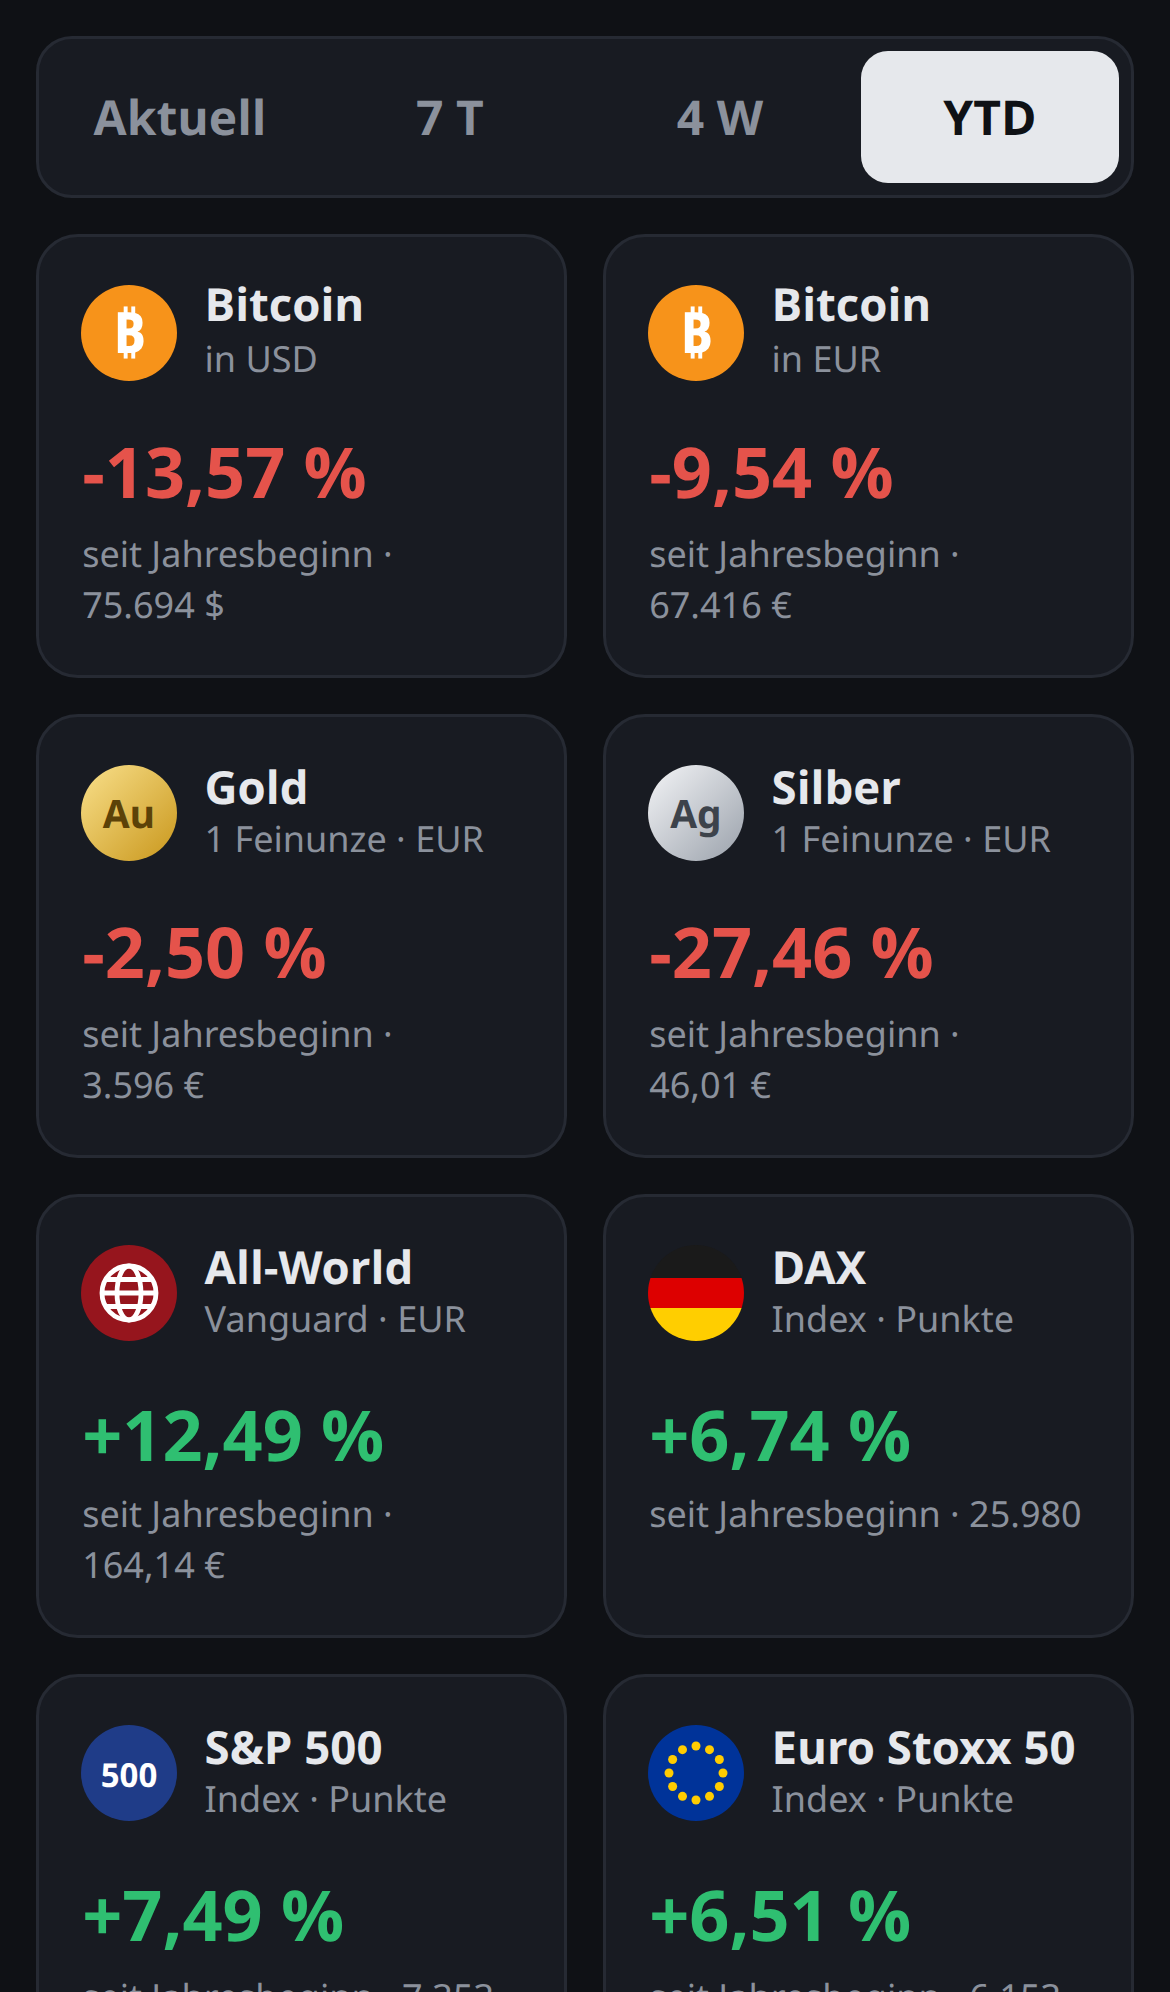
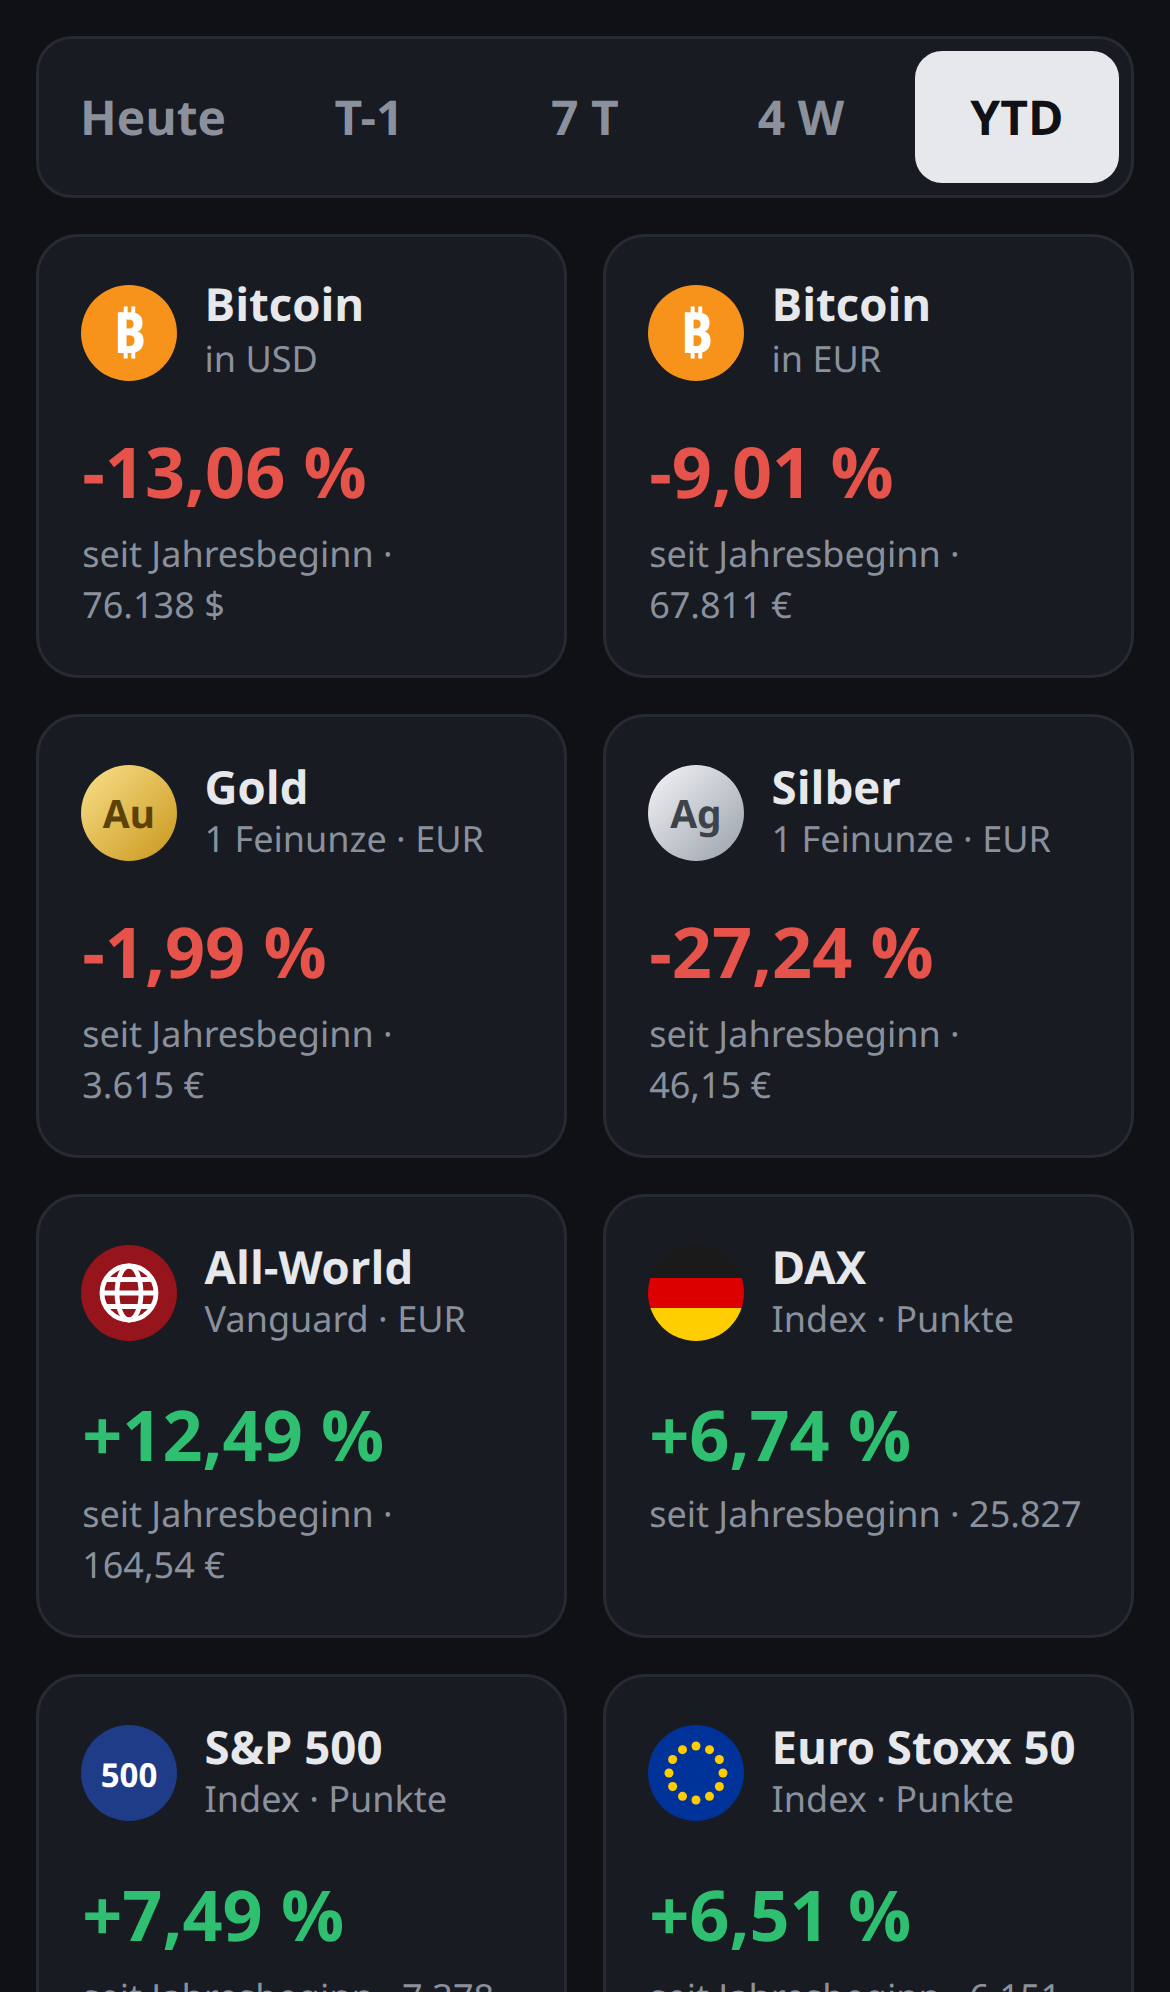
Add "Heute" view: change since yesterday's close (#5)
* Add "Heute" view: change since yesterday's close

CoinGecko assets compare against today's 00:00 UTC point (the previous
day's close); the ETF and indices use onvista's quote.performancePct
(change against previousLast). No extra requests.

* Replace "Aktuell" view with "T-1", start in "Heute"

Views are now Heute / T-1 / 7 T / 4 W / YTD. T-1 is the previous day's
change: today's 00:00 UTC point against yesterday's for CoinGecko
assets, cnPerformance.performanceRelD1 for the ETF and indices. The
current price stays visible in every tile's detail line; the quote
timestamp and the price-only view are gone.

* Replace "Aktuell" view with "T-1", start in "Heute"

Views are now Heute / T-1 / 7 T / 4 W / YTD. T-1 is the previous day's
change: today's 00:00 UTC point against yesterday's for CoinGecko
assets, cnPerformance.performanceRelD1 for the ETF and indices. The
current price stays visible in every tile's detail line; the quote
timestamp and the price-only view are gone.

---------

diff --git a/app.js b/app.js
@@ -42,7 +42,13 @@ const TILES = [
   { name: 'Euro Stoxx 50', unit: 'Index · Punkte', logo: LOGOS.stoxx, load: () => onvistaQuote('indices', 'EU0009658145') },
 ];
 
-const VIEW_LABELS = { w1: '7 Tagen', w4: '4 Wochen', ytd: 'Jahresbeginn' };
+const VIEW_LABELS = {
+  today: 'seit gestern',
+  yesterday: 'gestern',
+  w1: 'seit 7 Tagen',
+  w4: 'seit 4 Wochen',
+  ytd: 'seit Jahresbeginn',
+};
 
 async function getJson(url) {
   const response = await fetch(url);
@@ -71,10 +77,14 @@ async function coinQuote(id, currency) {
   // Daily points sit at 00:00 UTC; the last point is the live price.
   const [updated, current] = prices.at(-1);
   const startOfYear = Date.UTC(new Date(updated).getUTCFullYear(), 0, 1);
+  // Today's 00:00 UTC point is the previous day's close.
+  const startOfDay = updated - (updated % DAY);
+  const previousClose = priceAt(prices, startOfDay);
   return {
     currency: currency.toUpperCase(),
     current,
-    updated,
+    today: change(current, previousClose),
+    yesterday: change(previousClose, priceAt(prices, startOfDay - DAY)),
     w1: change(current, priceAt(prices, updated - 7 * DAY)),
     w4: change(current, priceAt(prices, updated - 28 * DAY)),
     ytd: change(current, priceAt(prices, startOfYear)),
@@ -87,7 +97,8 @@ async function onvistaQuote(kind, isin) {
   return {
     currency: kind === 'indices' ? null : quote.isoCurrency,
     current: quote.last,
-    updated: Date.parse(quote.datetimeLast),
+    today: quote.performancePct, // change against the previous close (quote.previousLast)
+    yesterday: cnPerformance.performanceRelD1, // previous close against the close before
     w1: cnPerformance.performanceRelW1,
     w4: cnPerformance.performanceRelW4,
     ytd: cnPerformance.performanceRelCy,
@@ -118,10 +129,7 @@ function renderBody(result, view) {
   if (result.error) return `<p class="error">Nicht verfügbar (${result.error.message})</p>`;
   const quote = result.quote;
   const price = formatPrice(quote.current, quote.currency);
-  if (view === 'current') {
-    return `<div class="value">${price}</div><div class="detail">Stand ${formatTime(quote.updated)}</div>`;
-  }
-  return `${formatChange(quote[view])}<div class="detail">seit ${VIEW_LABELS[view]} · ${price}</div>`;
+  return `${formatChange(quote[view])}<div class="detail">${VIEW_LABELS[view]} · ${price}</div>`;
 }
 
 const tileEls = TILES.map((tile) => {
@@ -138,7 +146,7 @@ const tileEls = TILES.map((tile) => {
 
 const viewButtons = document.querySelectorAll('.views button');
 const status = document.getElementById('status');
-let view = 'current';
+let view = 'today';
 let results = [];
 let lastLoad = 0;
 

diff --git a/index.html b/index.html
@@ -14,7 +14,8 @@
 <body>
   <header>
     <nav class="views" role="tablist" aria-label="Ansicht">
-      <button type="button" role="tab" data-view="current" aria-selected="true">Aktuell</button>
+      <button type="button" role="tab" data-view="today" aria-selected="true">Heute</button>
+      <button type="button" role="tab" data-view="yesterday" aria-selected="false">T-1</button>
       <button type="button" role="tab" data-view="w1" aria-selected="false">7 T</button>
       <button type="button" role="tab" data-view="w4" aria-selected="false">4 W</button>
       <button type="button" role="tab" data-view="ytd" aria-selected="false">YTD</button>

diff --git a/style.css b/style.css
@@ -33,7 +33,7 @@ header {
 
 .views {
   display: grid;
-  grid-template-columns: repeat(4, 1fr);
+  grid-template-columns: repeat(5, 1fr);
   gap: 4px;
   padding: 4px;
   background: var(--card);
@@ -49,6 +49,7 @@ header {
   color: var(--muted);
   font: inherit;
   font-weight: 600;
+  white-space: nowrap;
   cursor: pointer;
 }
 

diff --git a/openspec/changes/add-daily-change-view/specs/market-dashboard/spec.md b/openspec/changes/add-daily-change-view/specs/market-dashboard/spec.md
@@ -1,0 +1,43 @@
+## MODIFIED Requirements
+
+### Requirement: View switcher
+The page SHALL show a segmented control with five buttons labelled "Heute", "T-1", "7 T", "4 W"
+and "YTD". Exactly one is selected; "Heute" is selected on page load. Selecting a button
+SHALL re-render all tiles for that view without fetching data again. Buttons SHALL use `role="tab"`
+with `aria-selected`. All five labels SHALL fit on one line in one row down to a 320 px wide viewport.
+
+#### Scenario: Period view
+- **WHEN** a view is selected
+- **THEN** each tile shows the percentage change for that period with two decimals, a leading "+" for
+  gains, green for gains, red for losses (e.g. `+12,49 %`, `-9,92 %`)
+- **AND** a small line "seit gestern" / "gestern" / "seit 7 Tagen" / "seit 4 Wochen" /
+  "seit Jahresbeginn", then " · " and the current price in its currency (de-DE, e.g. `67.134 €`,
+  `75.388 $`, `46,01 €`; no decimals at or above 1000, two decimals below; index levels as plain
+  numbers without a currency symbol, e.g. `25.980`)
+
+#### Scenario: Value unavailable
+- **WHEN** a period change cannot be computed (no reference price)
+- **THEN** the tile shows "–" instead of a percentage
+
+### Requirement: Performance calculation
+For Bitcoin, gold and silver the page SHALL compute `(value / reference - 1) * 100` from the daily
+history (points at 00:00 UTC, the last point being the live price):
+- Heute: live price against the price at 00:00 UTC of the current day (the previous day's close)
+- T-1: price at 00:00 UTC of the current day against the price at 00:00 UTC of the previous day
+- 7 T: live price against the last price at or before now minus 7 days
+- 4 W: live price against the last price at or before now minus 28 days
+- YTD: live price against the price at 1 January 00:00 UTC of the current year
+
+For the ETF and the indices the page SHALL use the precomputed percentages from the onvista snapshot:
+`quote.performancePct` (Heute), `cnPerformance.performanceRelD1` (T-1), `performanceRelW1` (7 T),
+`performanceRelW4` (4 W) and `performanceRelCy` (YTD).
+
+#### Scenario: Year to date
+- **WHEN** the current date is 2026-11-06 and the history contains a price for 2026-01-01T00:00Z
+- **THEN** the YTD change is computed against that price
+
+#### Scenario: Today and yesterday
+- **WHEN** the live Bitcoin price is taken at 2026-11-06T11:09Z and the history contains prices for
+  2026-11-05T00:00Z and 2026-11-06T00:00Z
+- **THEN** "Heute" compares the live price with the 2026-11-06T00:00Z price
+- **AND** "T-1" compares the 2026-11-06T00:00Z price with the 2026-11-05T00:00Z price

diff --git a/openspec/changes/add-daily-change-view/proposal.md b/openspec/changes/add-daily-change-view/proposal.md
@@ -1,0 +1,22 @@
+# Change: Daily views "Heute" and "T-1" instead of "Aktuell"
+
+## Why
+The most common question is how things are doing today and how they did yesterday. A view that only
+shows prices is not needed: the current price is already shown under every percentage.
+
+## What Changes
+- **BREAKING (UI):** remove the "Aktuell" view. The views are now "Heute", "T-1", "7 T", "4 W"
+  and "YTD"; "Heute" is selected on page load.
+- "Heute": change since the previous close (T-1). CoinGecko assets compare with the 00:00 UTC point of
+  the current day; the ETF and indices use onvista `quote.performancePct`.
+- "T-1": the previous day's change (T-1 close against T-2 close). CoinGecko assets compare the
+  00:00 UTC points of today and yesterday; the ETF and indices use onvista
+  `cnPerformance.performanceRelD1`.
+- The quote timestamp ("Stand …") is no longer shown, and `updated` is dropped from the normalized
+  quote. The footer keeps "Zuletzt geladen".
+- View button labels do not wrap.
+- No additional requests.
+
+## Impact
+- Affected specs: `market-dashboard`
+- Affected code: `index.html`, `style.css`, `app.js`, `README.md`, screenshots

diff --git a/openspec/changes/add-daily-change-view/tasks.md b/openspec/changes/add-daily-change-view/tasks.md
@@ -1,0 +1,15 @@
+## 1. Implementation
+- [x] 1.1 `index.html`: buttons "Heute" (`data-view="today"`, selected), "T-1"
+      (`data-view="yesterday"`), "7 T", "4 W", "YTD"; remove "Aktuell"
+- [x] 1.2 `style.css`: five columns; labels `nowrap`
+- [x] 1.3 `app.js`: `today` and `yesterday` in the normalized quote (CoinGecko from the 00:00 UTC
+      points; onvista `quote.performancePct` and `cnPerformance.performanceRelD1`); drop the price-only
+      view and `updated`; start in "Heute"
+- [x] 1.4 README: describe the views, new screenshots
+
+## 2. Verification
+- [x] 2.1 All five views at iPhone size (Playwright `devices['iPhone 13']`); still 8 requests per load
+- [x] 2.2 Buttons fit on one line in one row at 390, 360 and 320 px
+- [x] 2.3 Spot-check: Bitcoin EUR "T-1" equals today's 00:00 UTC price / yesterday's 00:00 UTC
+      price; ETF "7 T" from onvista equals `previousLast / lastPriceW1`, which shows that onvista's
+      period values (including D1) are based on the previous close

diff --git a/README.md b/README.md
@@ -1,7 +1,9 @@
 # hodl-helper
 
 Statische, mobil optimierte Seite (Vanilla JS, kein Backend) mit Kursen und Performance.
-Oben wählen vier Buttons die Ansicht: **Aktuell** (Preis), **7 T**, **4 W**, **YTD** (Veränderung in %).
+Oben wählen fünf Buttons den Zeitraum der Veränderung in %: **Heute** (seit Vortagesschluss), **T-1**
+(Vortagesschluss gegenüber dem Schluss davor, also gestern), **7 T**, **4 W**, **YTD**. Der aktuelle Kurs steht
+in jeder Kachel unter der Veränderung.
 
 | Kachel | Quelle | Hinweis |
 |---|---|---|
@@ -14,9 +16,9 @@ Oben wählen vier Buttons die Ansicht: **Aktuell** (Preis), **7 T**, **4 W**, **
 Beide APIs senden `Access-Control-Allow-Origin: *`, der Browser ruft sie direkt auf.
 Aktualisierung alle 5 Minuten und beim Zurückkehren in den Tab.
 
-| Aktuell | YTD |
+| Heute | YTD |
 |---|---|
-| ![Aktuell](screenshot-aktuell.png) | ![YTD](screenshot-ytd.png) |
+| ![Heute](screenshot-heute.png) | ![YTD](screenshot-ytd.png) |
 
 ## Lokal starten
 

diff --git a/openspec/project.md b/openspec/project.md
@@ -34,6 +34,9 @@ ounce), the Vanguard FTSE All-World UCITS ETF (EUR) and the DAX, S&P 500 and EUR
 
 ## Domain Context
 - "YTD" = change since the last price of the previous calendar year (UTC).
+- "Heute" = change since the previous close (T-1): 00:00 UTC for crypto and token prices, the previous
+  trading day's close for the ETF and indices.
+- "T-1" = the previous day's change: previous close (T-1) against the close before it (T-2).
 - "7 T" = 7 days, "4 W" = 4 weeks (28 days).
 - Gold and silver are tracked through gold- and silver-backed tokens (1 token = 1 troy ounce), because
   no free, keyless, CORS-enabled spot metal API with history was found. The token price is within
